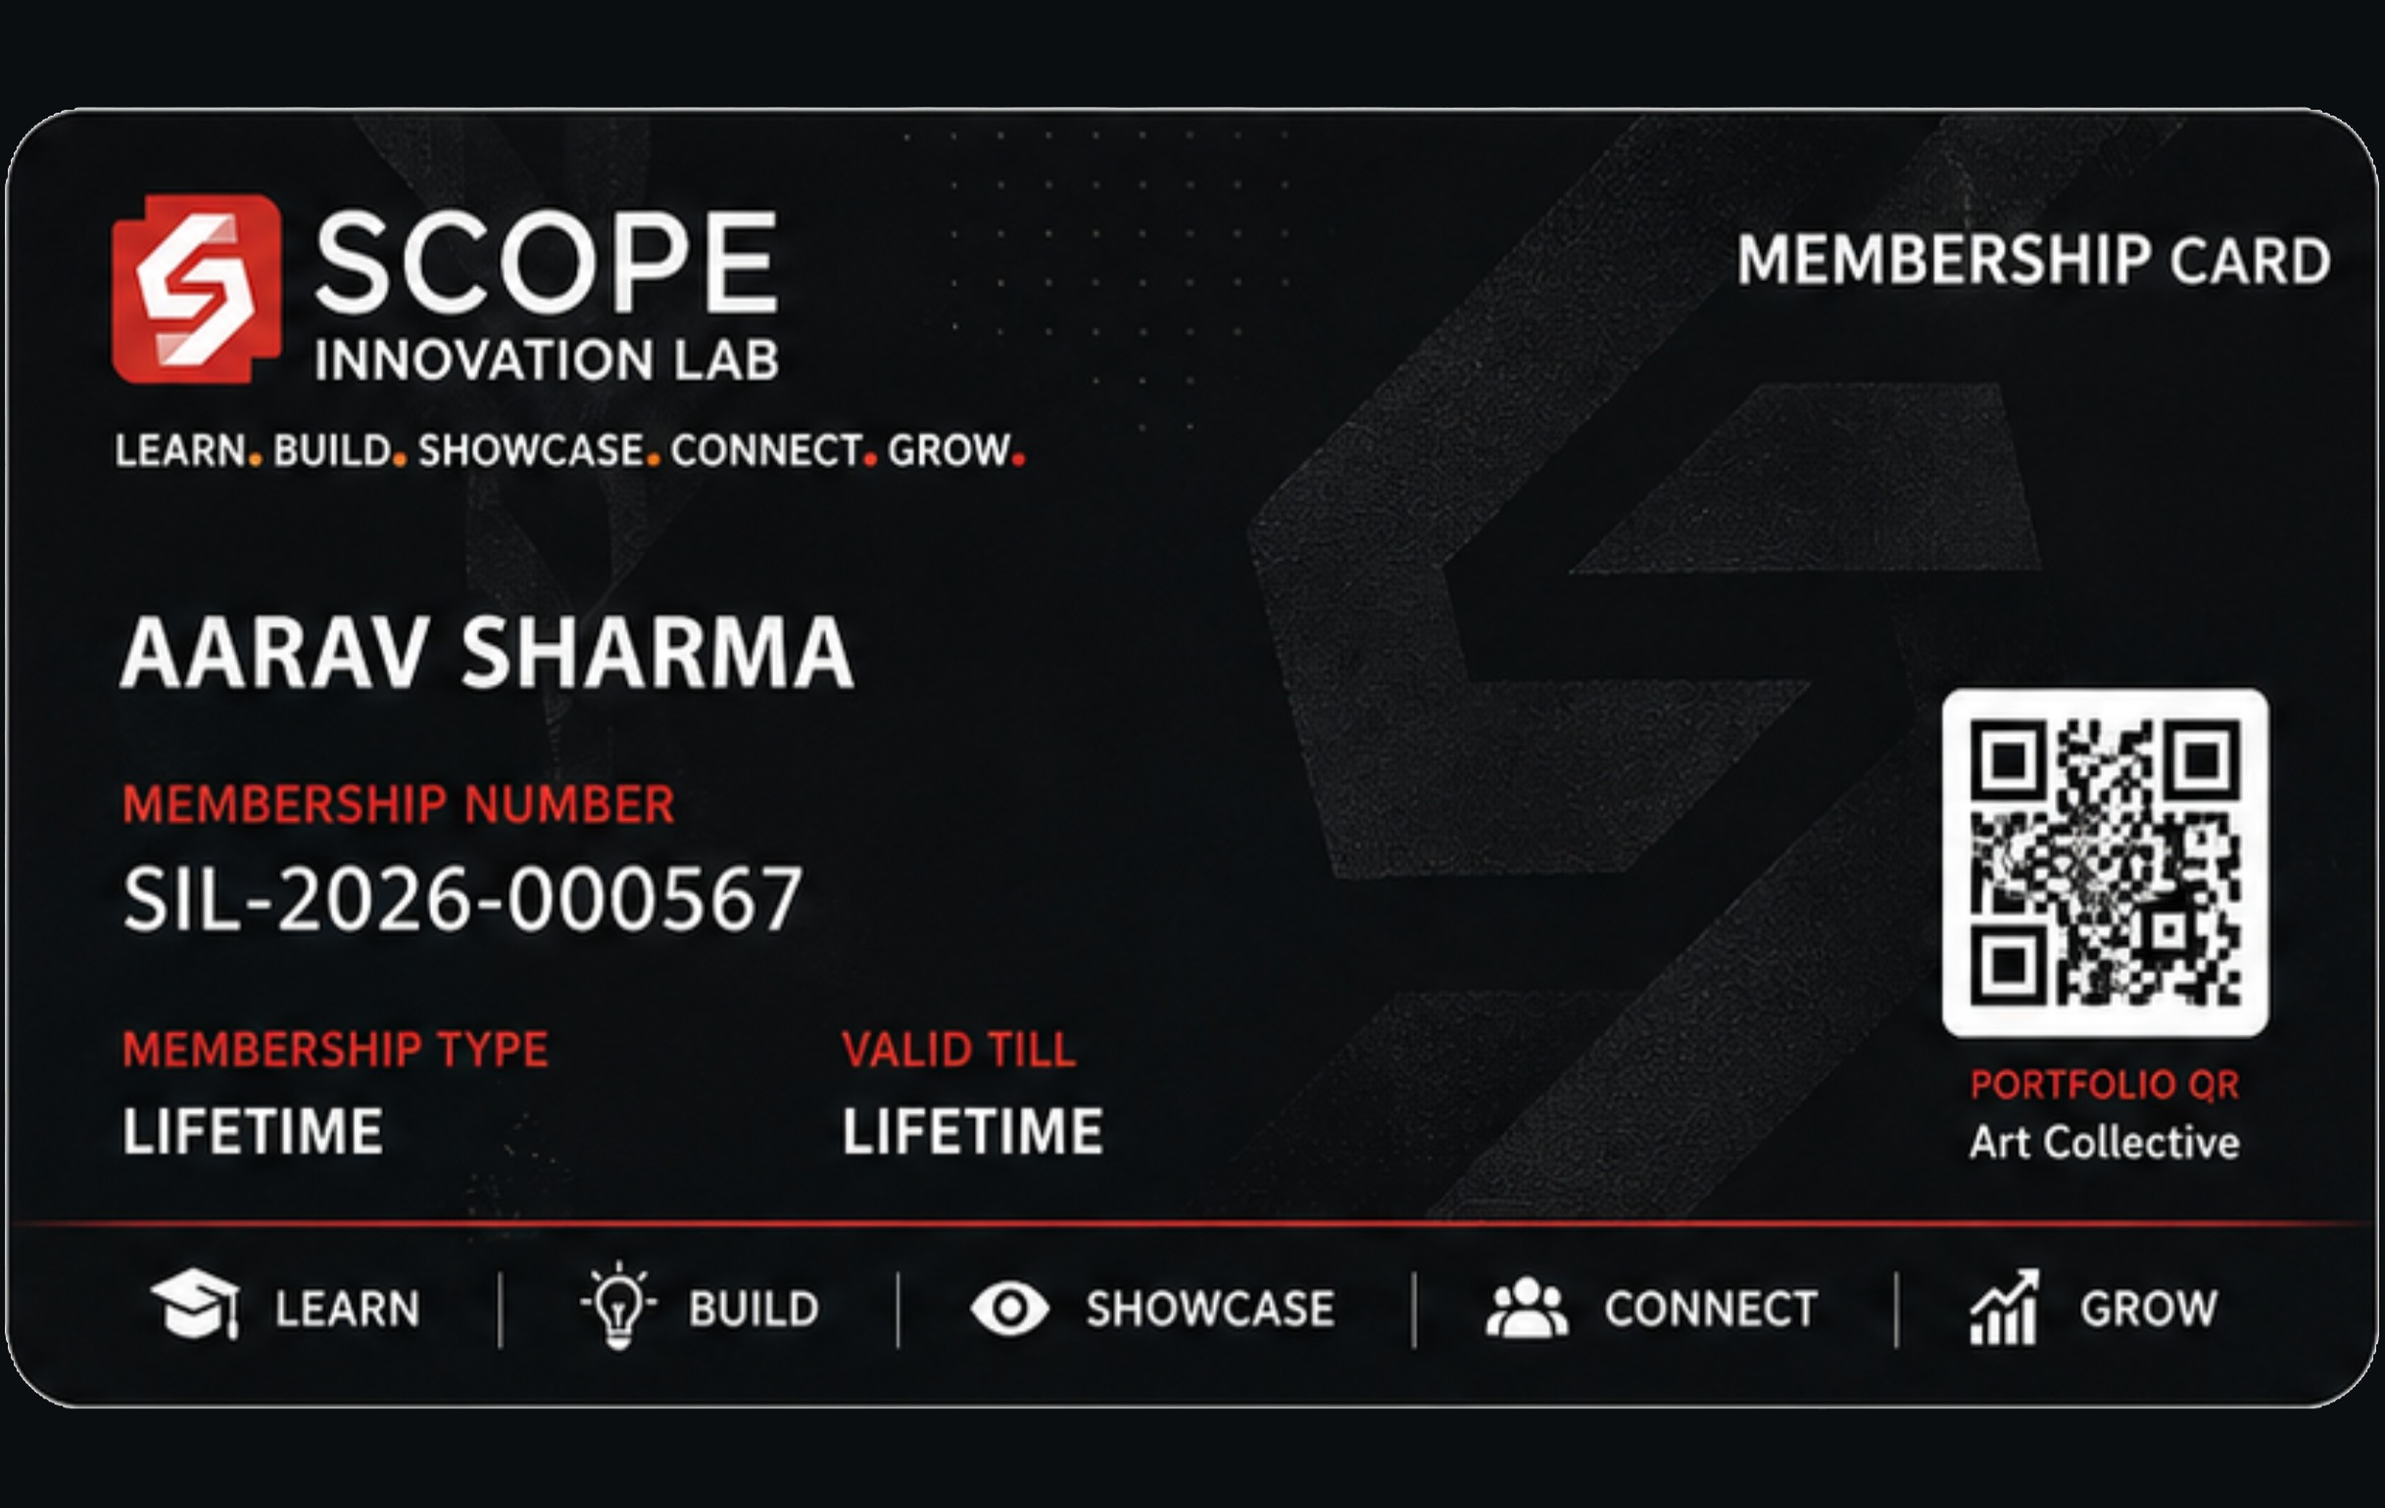
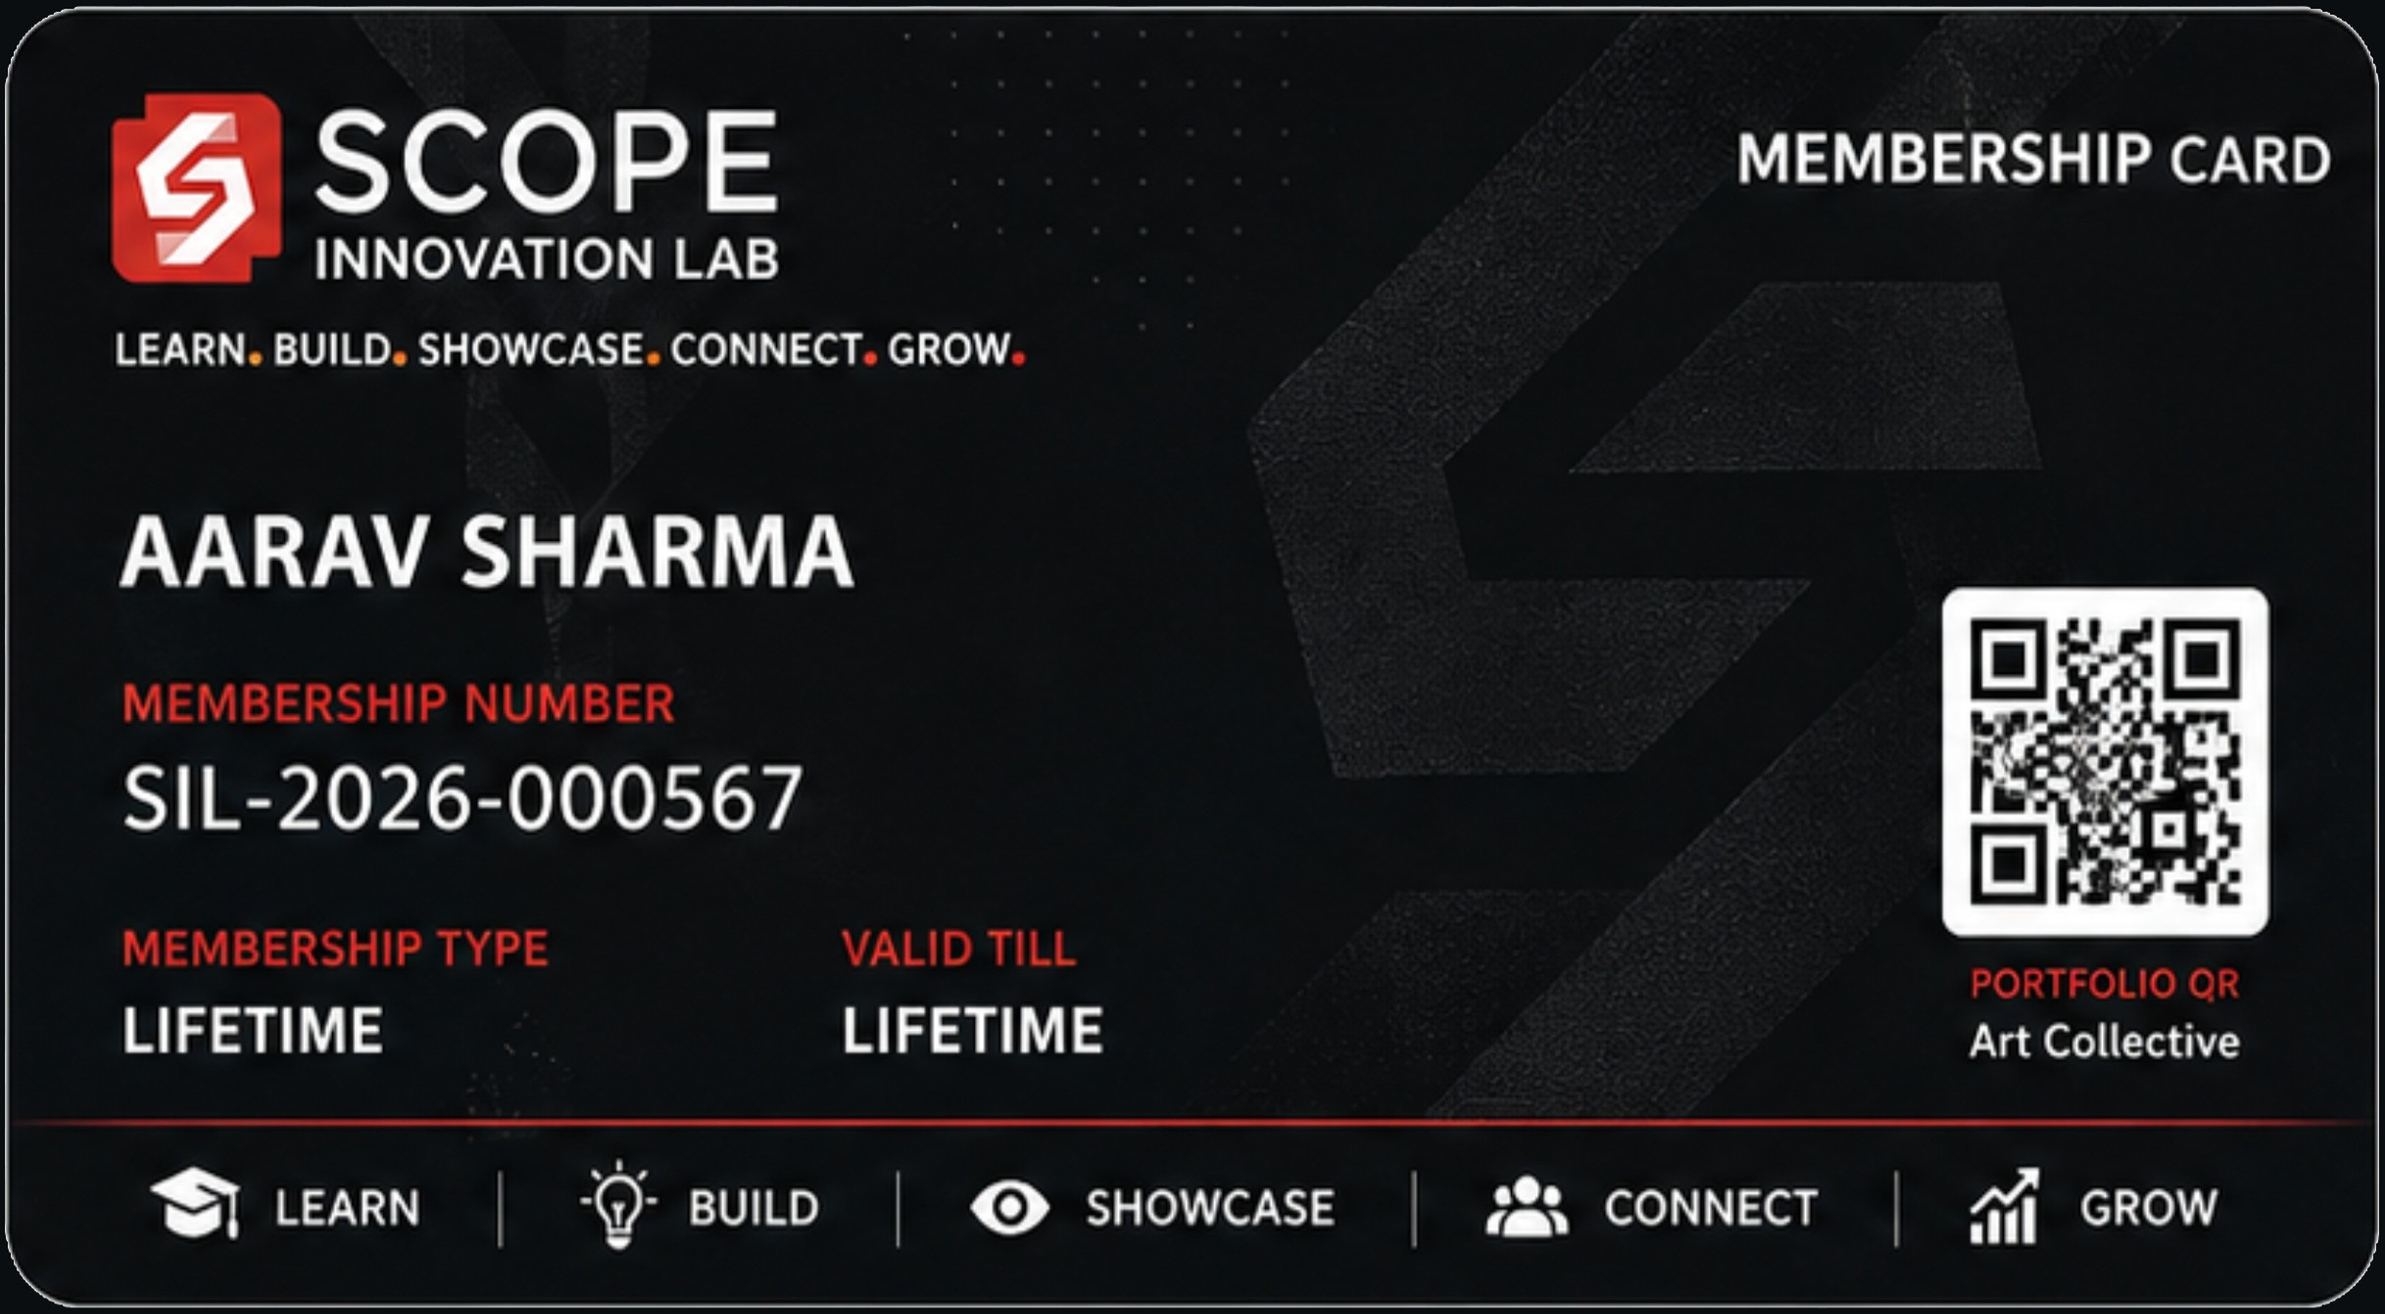
adjustments

diff --git a/src/components/scope/ScopeCard.tsx b/src/components/scope/ScopeCard.tsx
@@ -44,99 +44,9 @@ export function ScopeCard({ className = "", tilt = true }: { className?: string;
         ref={ref}
         onMouseMove={onMove}
         onMouseLeave={() => setT({ x: 0, y: 0 })}
-        className="scope-float card-sheen relative aspect-[85.6/53.98] w-full overflow-hidden rounded-[18px] border border-white/10 p-[5.5%] text-white shadow-[0_30px_60px_-25px_rgba(0,0,0,0.75)] transition-transform duration-300 will-change-transform"
+        className="scope-float card-sheen relative aspect-[2434/1341] w-full overflow-hidden rounded-[18px] shadow-[0_30px_60px_-25px_rgba(0,0,0,0.75)] transition-transform duration-300 will-change-transform"
         style={{ transform: `rotateX(${t.x}deg) rotateY(${t.y}deg)` }}
-      >
-        {/* embossed scope symbol */}
-        <div
-          aria-hidden="true"
-          className="pointer-events-none absolute -right-10 -bottom-14 h-56 w-56 rounded-full border-[18px] border-white/[0.04]"
-        />
-        <div
-          aria-hidden="true"
-          className="pointer-events-none absolute inset-0 opacity-[0.06]"
-          style={{
-            backgroundImage:
-              "repeating-linear-gradient(45deg, #fff 0 1px, transparent 1px 4px)",
-          }}
-        />
-
-        <div className="relative flex h-full flex-col justify-between">
-          <div className="flex items-start justify-between gap-3">
-            <div>
-              <div className="flex items-center gap-1.5">
-                <img
-                  src="/SCOPE Innovation Lab logo mark-07.png"
-                  alt="SCOPE Logo"
-                  className="h-[clamp(0.6rem,1.8cqw,0.85rem)] w-auto object-contain brightness-100"
-                />
-                <span className="text-[clamp(0.85rem,2.5cqw,1.1rem)] leading-none font-extrabold tracking-[0.06em]">
-                  SCOPE
-                </span>
-              </div>
-              <div className="mt-0.5 text-[clamp(0.4rem,1.3cqw,0.55rem)] tracking-[0.08em] text-white/60">
-                INNOVATION LAB
-              </div>
-            </div>
-            <div className="text-right">
-              <div className="text-[clamp(0.42rem,1.3cqw,0.6rem)] font-semibold tracking-[0.08em] text-scope">
-                EMPOWERMENT CARD
-              </div>
-              <div className="mt-1 text-[clamp(0.34rem,1.1cqw,0.47rem)] tracking-[0.06em] text-white/45">
-                LEARN. BUILD. SHOWCASE. CONNECT. GROW.
-              </div>
-            </div>
-          </div>
-
-          <div className="flex items-end justify-between gap-4">
-            <div className="min-w-0">
-              <div className="text-[clamp(0.9rem,3.1cqw,1.4rem)] leading-tight font-bold tracking-[-0.02em]">
-                {MEMBER.name}
-              </div>
-              <div className="mt-2 grid grid-cols-2 gap-x-5 gap-y-2">
-                <div>
-                  <div className="text-[clamp(0.3rem,1cqw,0.42rem)] tracking-[0.06em] text-white/45">
-                    MEMBERSHIP NUMBER
-                  </div>
-                  <div className="text-[clamp(0.5rem,1.5cqw,0.72rem)] font-semibold tracking-wider">
-                    {MEMBER.id}
-                  </div>
-                </div>
-                <div>
-                  <div className="text-[clamp(0.3rem,1cqw,0.42rem)] tracking-[0.06em] text-white/45">
-                    SCOPE CHAPTER
-                  </div>
-                  <div className="text-[clamp(0.45rem,1.3cqw,0.62rem)] font-medium tracking-wide text-white/85">
-                    PARTICIPATING INSTITUTION
-                  </div>
-                </div>
-                <div>
-                  <div className="text-[clamp(0.3rem,1cqw,0.42rem)] tracking-[0.06em] text-white/45">
-                    MEMBERSHIP
-                  </div>
-                  <div className="text-[clamp(0.45rem,1.3cqw,0.62rem)] font-semibold tracking-wide">
-                    {MEMBER.term}
-                  </div>
-                </div>
-                <div>
-                  <div className="text-[clamp(0.3rem,1cqw,0.42rem)] tracking-[0.06em] text-white/45">
-                    VALIDITY
-                  </div>
-                  <div className="text-[clamp(0.45rem,1.3cqw,0.62rem)] font-semibold tracking-wide">
-                    {MEMBER.validity}
-                  </div>
-                </div>
-              </div>
-            </div>
-            <div className="shrink-0 text-center">
-              <QrPlaceholder />
-              <div className="mt-1 text-[clamp(0.28rem,0.95cqw,0.4rem)] tracking-[0.14em] text-white/55">
-                MY SCOPE PROFILE
-              </div>
-            </div>
-          </div>
-        </div>
-      </div>
+      />
     </div>
   );
 }

diff --git a/src/styles.css b/src/styles.css
@@ -127,8 +127,11 @@
 
 @utility card-sheen {
   background-image:
-    radial-gradient(120% 90% at 80% -10%, oklch(1 0 0 / 0.1), transparent 60%),
-    linear-gradient(150deg, oklch(0.22 0.005 250), oklch(0.14 0.004 250) 60%);
+    radial-gradient(120% 90% at 80% -10%, rgba(255, 255, 255, 0.2), transparent 65%),
+    url('/Scope 1.jpg');
+  background-size: contain;
+  background-repeat: no-repeat;
+  background-position: center;
 }
 
 /* Reveal on scroll */

diff --git a/src/lib/scope-data.ts b/src/lib/scope-data.ts
@@ -1,8 +1,8 @@
 export const MEMBER = {
-  name: "DISHA MUKHERJEE",
+  name: "AARAV SHARMA",
   id: "SIL-2026-000567",
-  term: "5-YEAR",
-  validity: "60 MONTHS",
+  term: "LIFETIME",
+  validity: "LIFETIME",
 };
 
 export const FEE = "₹2,499";
